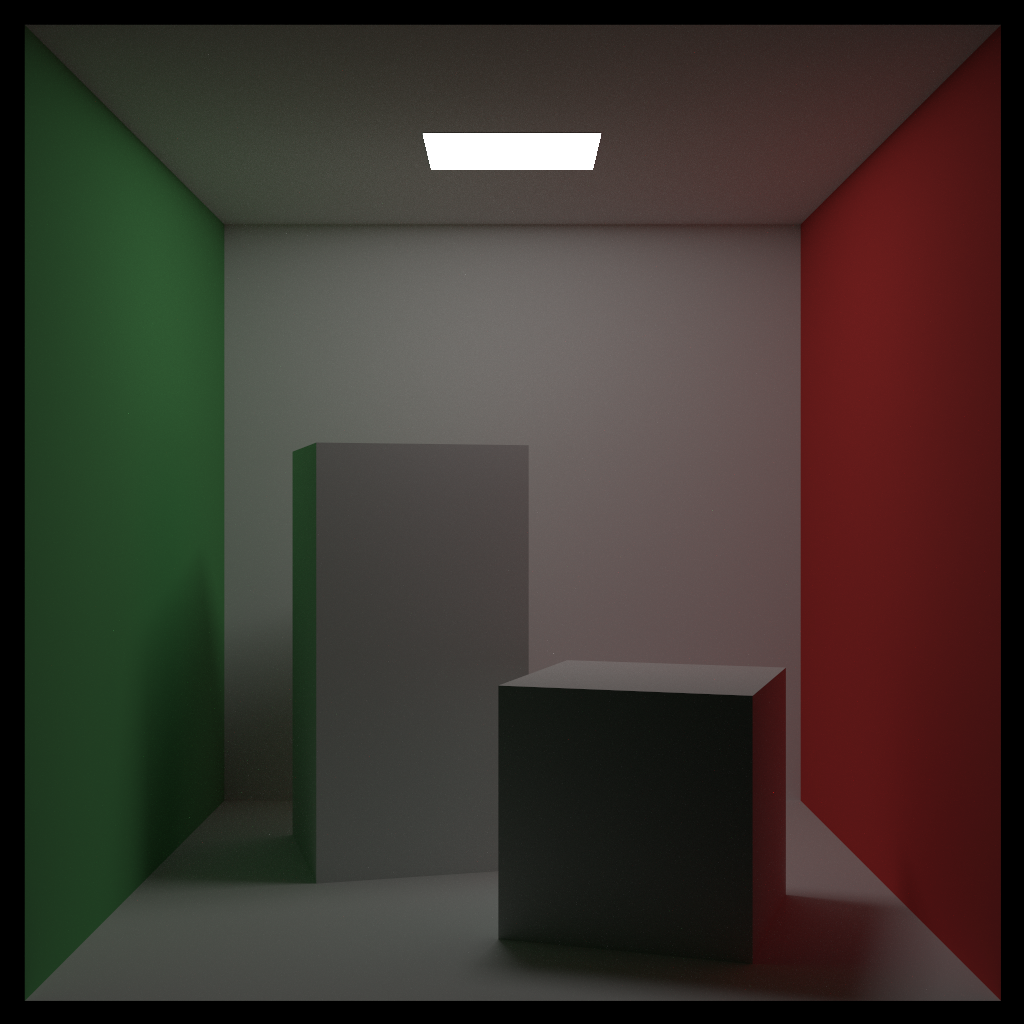
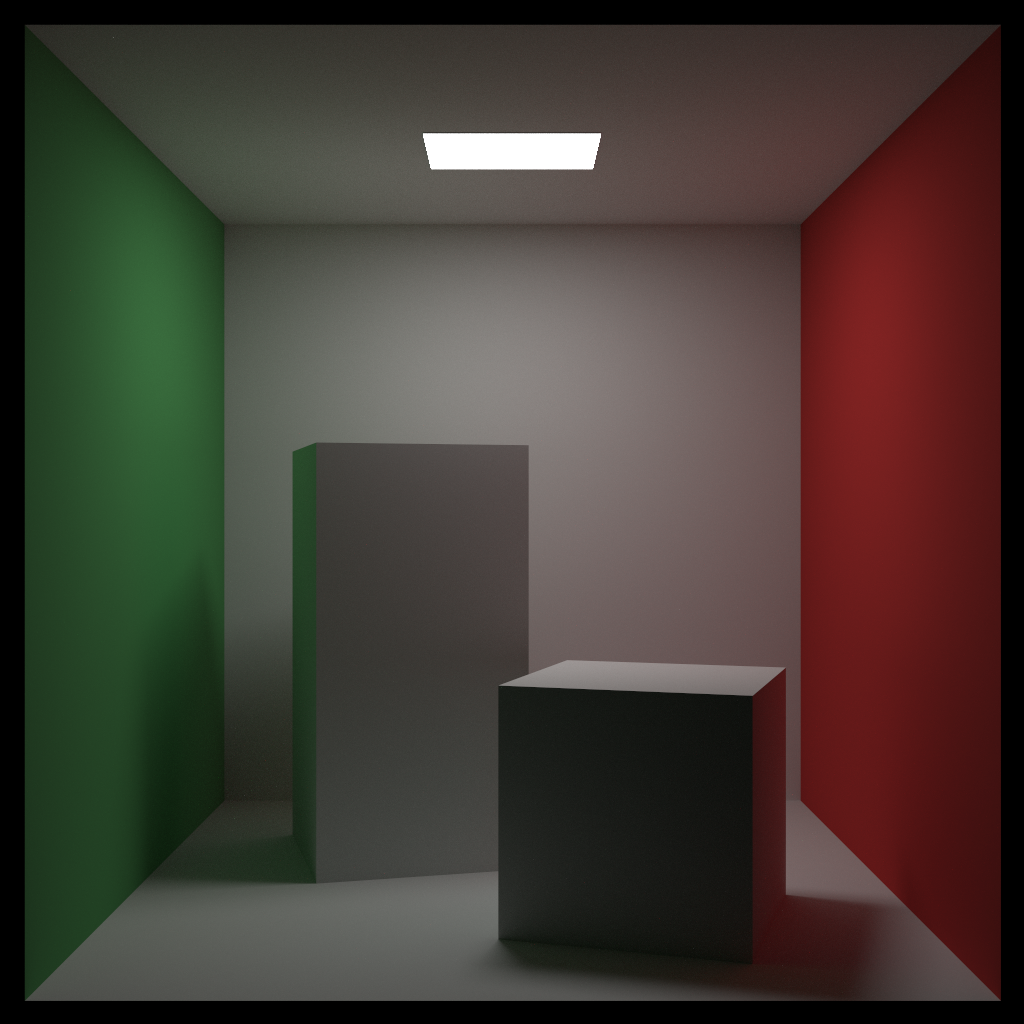
Update samples

diff --git a/README.md b/README.md
@@ -40,7 +40,7 @@ rayt --config config/cornell_box.yaml generate --scene CornellBox
 
 To render the Cornell box:
 ```bash
-raty --config config/cornell_box.yaml \
+rayt --config config/cornell_box.yaml \
     render --width 512 --rays 1000 --threads 8 --output output/cornell_box.png
 ```
 
@@ -66,6 +66,10 @@ A `Makefile` is included with some convenience targets:
 - `make cornell-test` is the same as `make render-test`, but only for the Cornell box
 - `make regenerate-samples` will create high-resolution / high-ray-count versions of the Cornell box and the
   final image from book 2 and put them in `output/samples`
+
+## Samples
+The directory `samples` contains images generated with high number of rays, specifically 5000 rays per pixel,
+to showcase what kinds of images `rayt` can render.
 
 ## Assets
 
